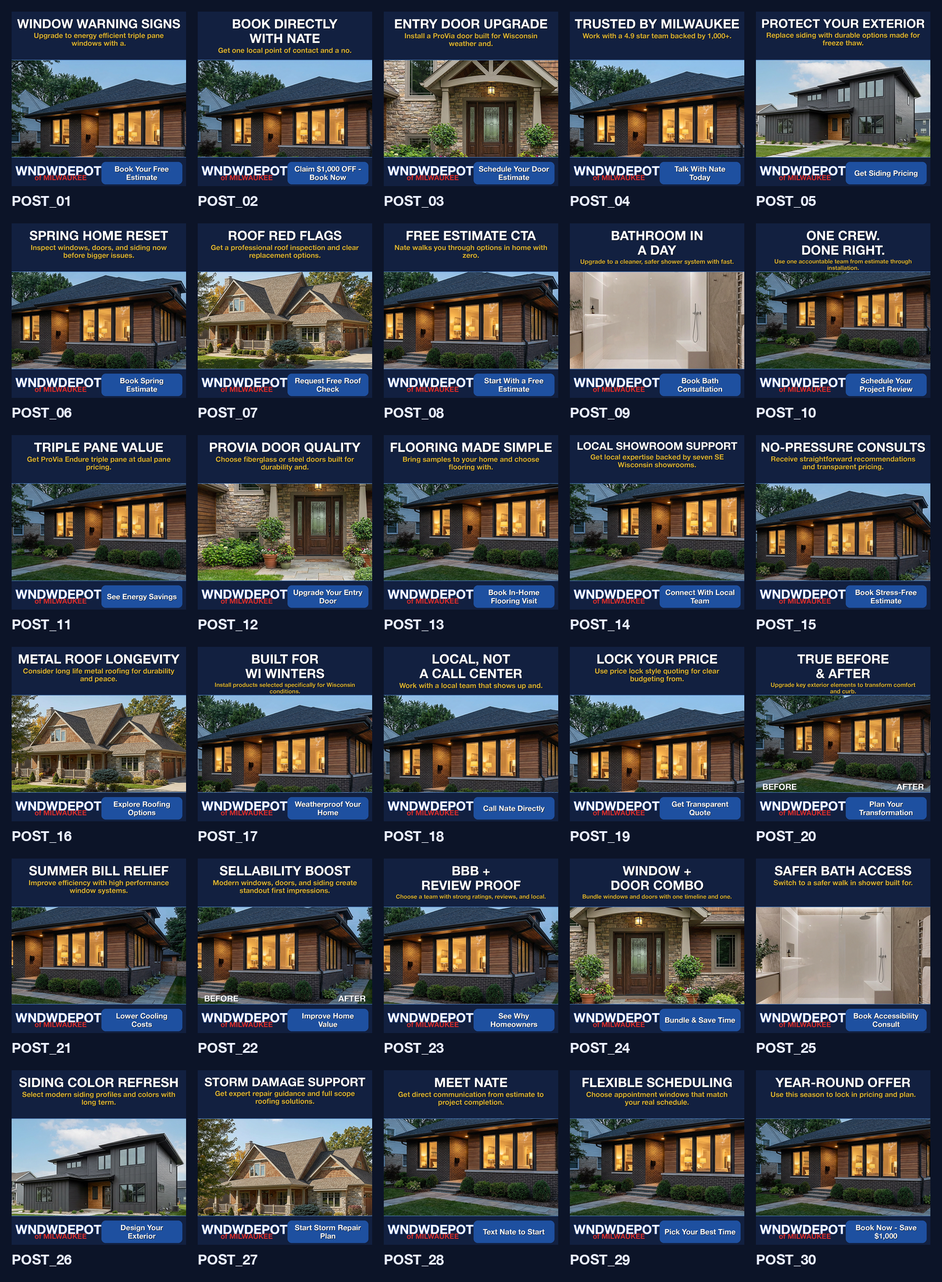
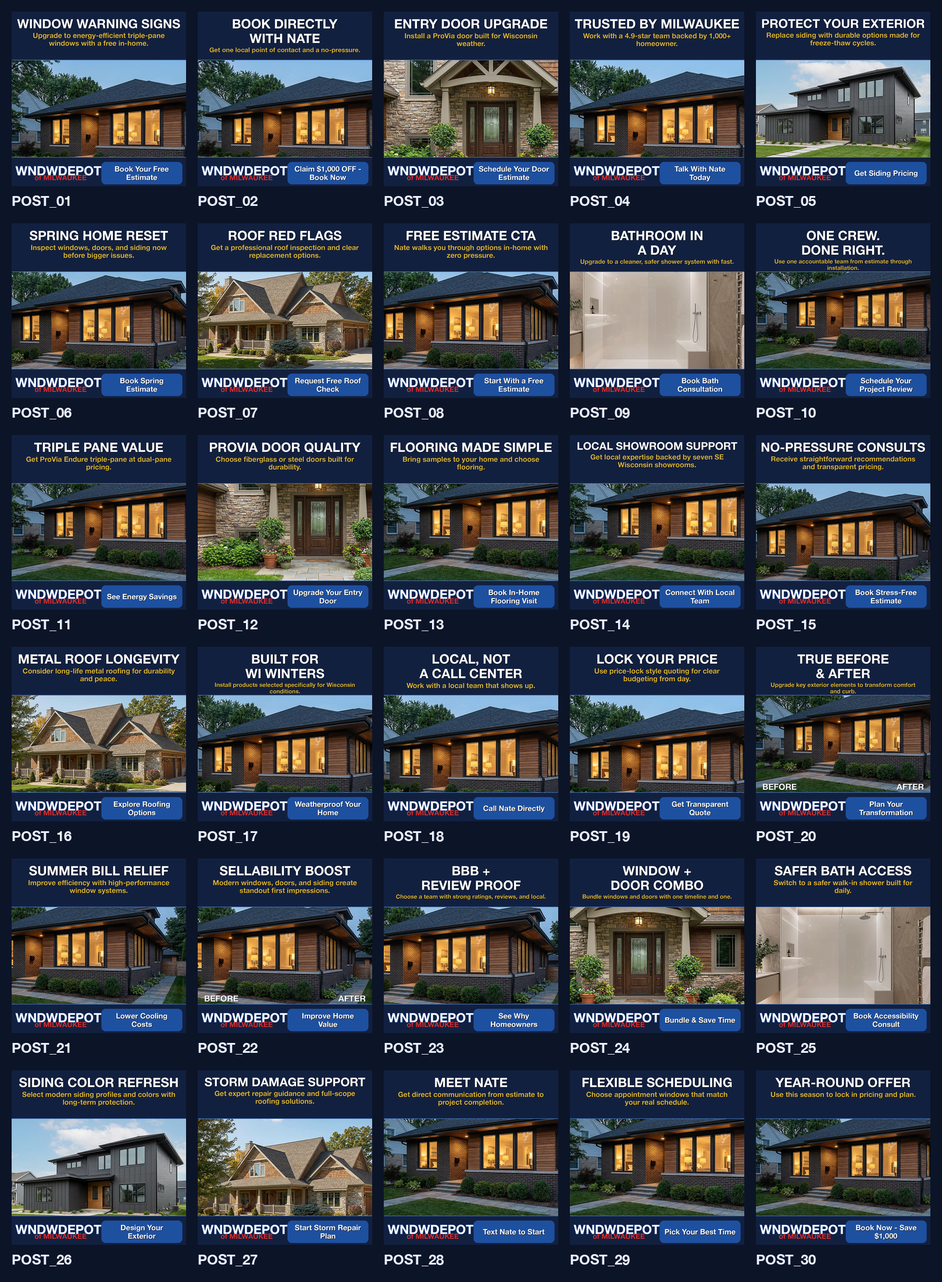
style: enlarge yellow solution subheading and clean truncation

diff --git a/scripts/generate_30_post_branded_images.py b/scripts/generate_30_post_branded_images.py
@@ -104,8 +104,12 @@ def split_title(headline: str) -> tuple[str, str]:
 
 
 def compact_phrase(text: str, max_words: int = 7) -> str:
-    words = text.replace("—", " ").replace("-", " ").split()
-    snippet = " ".join(words[:max_words]).rstrip(".,;:!?")
+    words = text.replace("—", " ").split()
+    clipped = words[:max_words]
+    bad_endings = {"and", "or", "to", "with", "for", "of", "a", "an", "the", "no"}
+    while clipped and clipped[-1].lower().strip(".,;:!?") in bad_endings:
+        clipped.pop()
+    snippet = " ".join(clipped).rstrip(".,;:!?")
     return snippet
 
 
